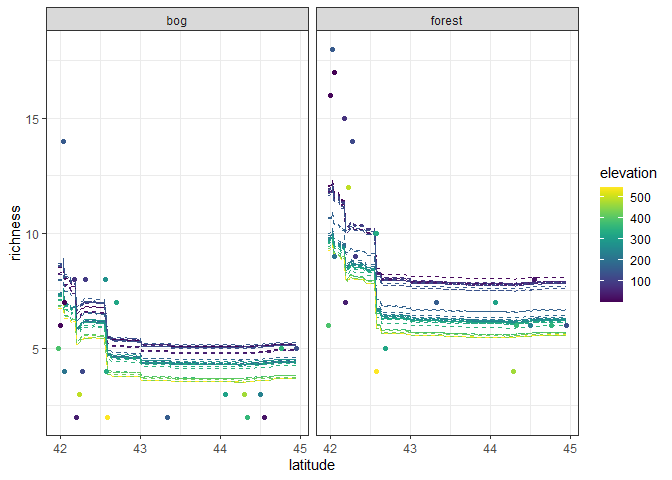
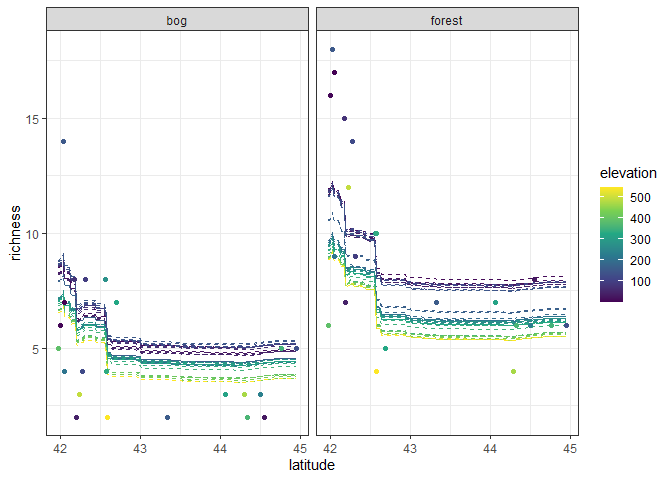
Update random forest

diff --git a/05_2_ants_random_forest.md b/05_2_ants_random_forest.md
@@ -7,11 +7,10 @@ Random forest illustrated with the ants data.
 
 ``` r
 library(ggplot2)
-library(viridis) #For nice color scale
 library(dplyr)
 library(tidyr)
 library(tree)
-#library(randomForest)
+library(randomForest)
 #library(doFuture) #For parallel processing
 #library(doRNG) #For safe random numbers in parallel processing
 source("source/random_folds.R")
@@ -88,6 +87,8 @@ rf_preds <- rowMeans(boot_preds)
 Plot predictions with elevation mapped to the viridis color scale (this
 color scale has [nice
 properties](https://cran.r-project.org/web/packages/viridis/vignettes/intro-to-viridis.html)).
+It’s available directly from `ggplot()` without loading an extra
+package.
 
 ``` r
 preds <- cbind(grid_data, richness=rf_preds)
@@ -98,7 +99,7 @@ ants %>%
               linetype=2) +
     geom_point(aes(x=latitude, y=richness, col=elevation)) +
     facet_wrap(vars(habitat)) +
-    scale_color_viridis() +
+    scale_color_viridis_c() +
     theme_bw()
 ```
 
@@ -151,7 +152,7 @@ random_forest <- function(formula, data, xnew_data, m, boot_reps=500) {
 
 Here’s how to call it. Check that it works using plotting code above to
 confirm the plot is the same. The notation `~ .` means use all the
-predictor variables in the dataset.
+predictor variables in the data frame.
 
 ``` r
 preds_rf <- random_forest(richness ~ ., data=ants, xnew_data=grid_data, m=2)
@@ -177,8 +178,104 @@ cbind(grid_data, preds_rf, preds_bag, preds_tree) %>%
               linetype=2) +
     geom_point(data=ants, aes(x=latitude, y=richness, col=elevation)) +
     facet_grid(rows=vars(model), cols=vars(habitat)) +
-    scale_color_viridis() +
+    scale_color_viridis_c() +
     theme_bw()
 ```
 
 ![](05_2_ants_random_forest_files/figure-gfm/unnamed-chunk-8-1.png)<!-- -->
+
+Using `randomForest()` from the randomForest package. Compared with our
+proof of concept code, the difference is due to the implementation and
+default settings of the base tree algorithm.
+
+``` r
+rf_pkg_train <- randomForest(richness ~ ., data=ants, ntree=500, mtry=2)
+preds_rf_pkg <- predict(rf_pkg_train, newdata=grid_data)
+
+cbind(grid_data, preds_rf, preds_rf_pkg) %>% 
+    pivot_longer(cols=starts_with("preds_"), 
+                 names_to="model",
+                 names_prefix="preds_",
+                 values_to="richness") %>%
+    ggplot() +
+    geom_line(aes(x=latitude, y=richness, col=elevation, group=factor(elevation)),
+              linetype=2) +
+    geom_point(data=ants, aes(x=latitude, y=richness, col=elevation)) +
+    facet_grid(rows=vars(model), cols=vars(habitat)) +
+    scale_color_viridis_c() +
+    labs(title="Top row: proof of concept code. Bottom row: randomForest package") +
+    theme_bw()
+```
+
+![](05_2_ants_random_forest_files/figure-gfm/unnamed-chunk-9-1.png)<!-- -->
+
+Why are about 1/3 out of bag? Because we are sampling n with
+replacement. Here’s a quick simulation sampling with replacement from
+n=100 rows.
+
+``` r
+reps <- 100000
+n_in_bag <- rep(NA, reps)
+for ( i in 1:reps ) {
+    inbag <- sample(1:100, size=100, replace=TRUE)
+    inbag <- unique(inbag)
+    n_in_bag[i] <- sum(1:100 %in% inbag)
+}
+OOB <- 100 - mean(n_in_bag)
+OOB #36.6% are out of bag
+```
+
+    ## [1] 36.60059
+
+Tuning the random forest algorithm. We can use out-of-bag error for
+number of trees and mtry.
+
+``` r
+# Visualize OOB error for number of trees
+plot(rf_pkg_train)
+```
+
+![](05_2_ants_random_forest_files/figure-gfm/unnamed-chunk-11-1.png)<!-- -->
+
+``` r
+# OOB error for mtry
+tuneRF(x=ants[,-1], y=ants[,1], mtryStart=3, ntreeTry=500)
+```
+
+    ## mtry = 3  OOB error = 12.31594 
+    ## Searching left ...
+    ## mtry = 2     OOB error = 10.96016 
+    ## 0.1100837 0.05 
+    ## mtry = 1     OOB error = 10.42091 
+    ## 0.04920055 0.05 
+    ## Searching right ...
+
+![](05_2_ants_random_forest_files/figure-gfm/unnamed-chunk-11-2.png)<!-- -->
+
+    ##   mtry OOBError
+    ## 1    1 10.42091
+    ## 2    2 10.96016
+    ## 3    3 12.31594
+
+For `tuneRF()` with OOB samples, it is of course stochastic and could
+vary a lot from run to run on small datasets like `ants`, just as we’ve
+seen such tuning stochasticity with k-fold CV. Use k-fold CV if
+necessary and with repeated random splits if necessary. In general, we
+want to tune number of trees, mtry, and the minimum node size of trees
+(a tree stopping rule). You would proceed as in `ants_bag.R`. Variable
+importance.
+
+``` r
+importance(rf_pkg_train)
+```
+
+    ##           IncNodePurity
+    ## latitude       310.7906
+    ## habitat        181.5550
+    ## elevation      190.3374
+
+``` r
+varImpPlot(rf_pkg_train)
+```
+
+![](05_2_ants_random_forest_files/figure-gfm/unnamed-chunk-12-1.png)<!-- -->
